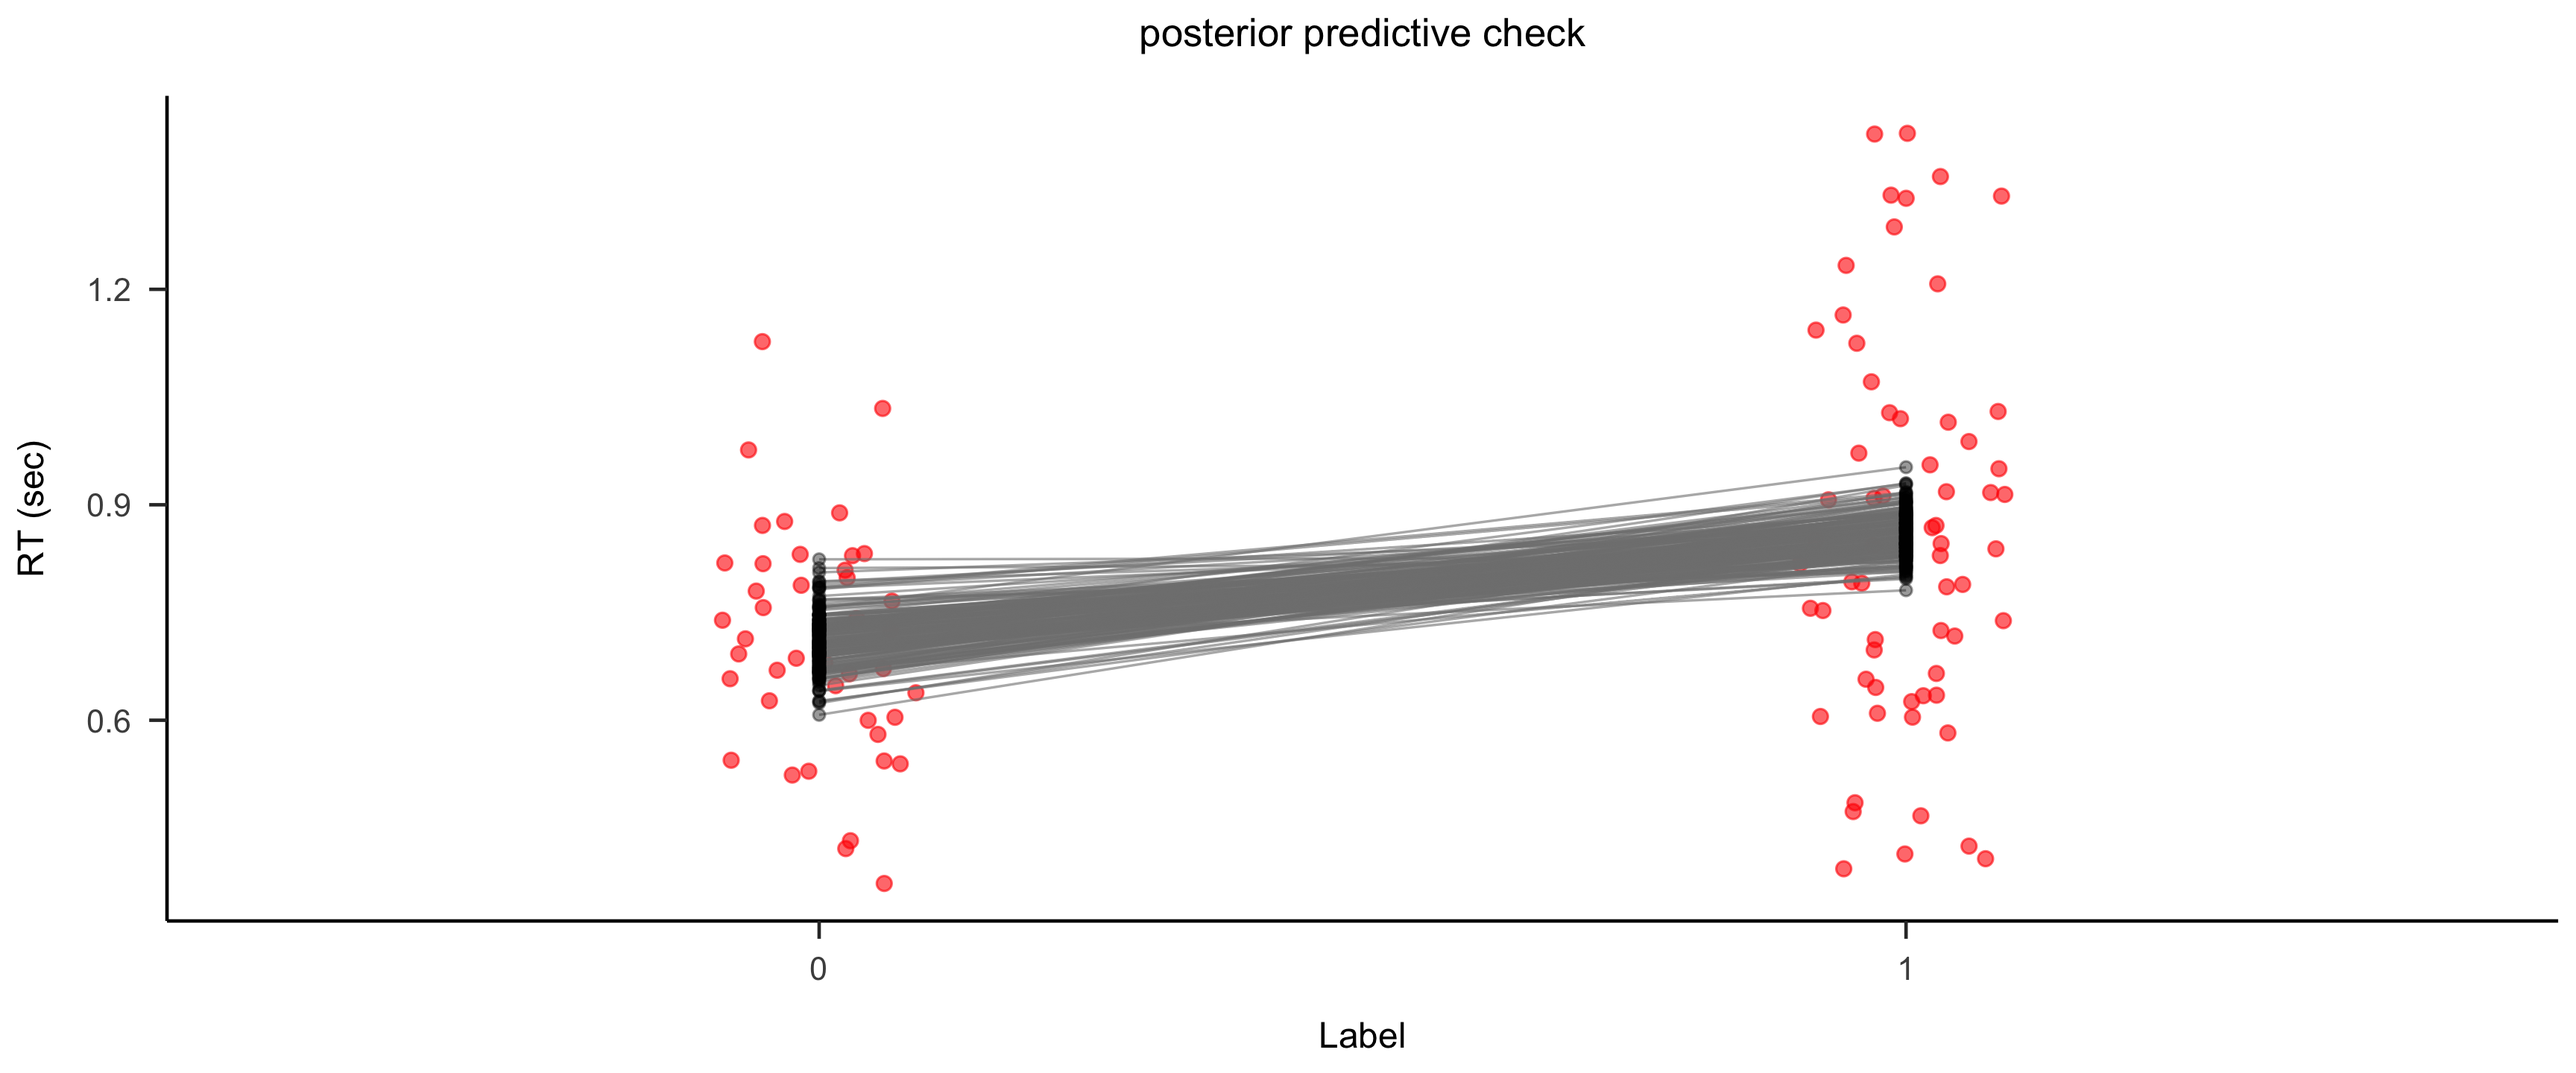
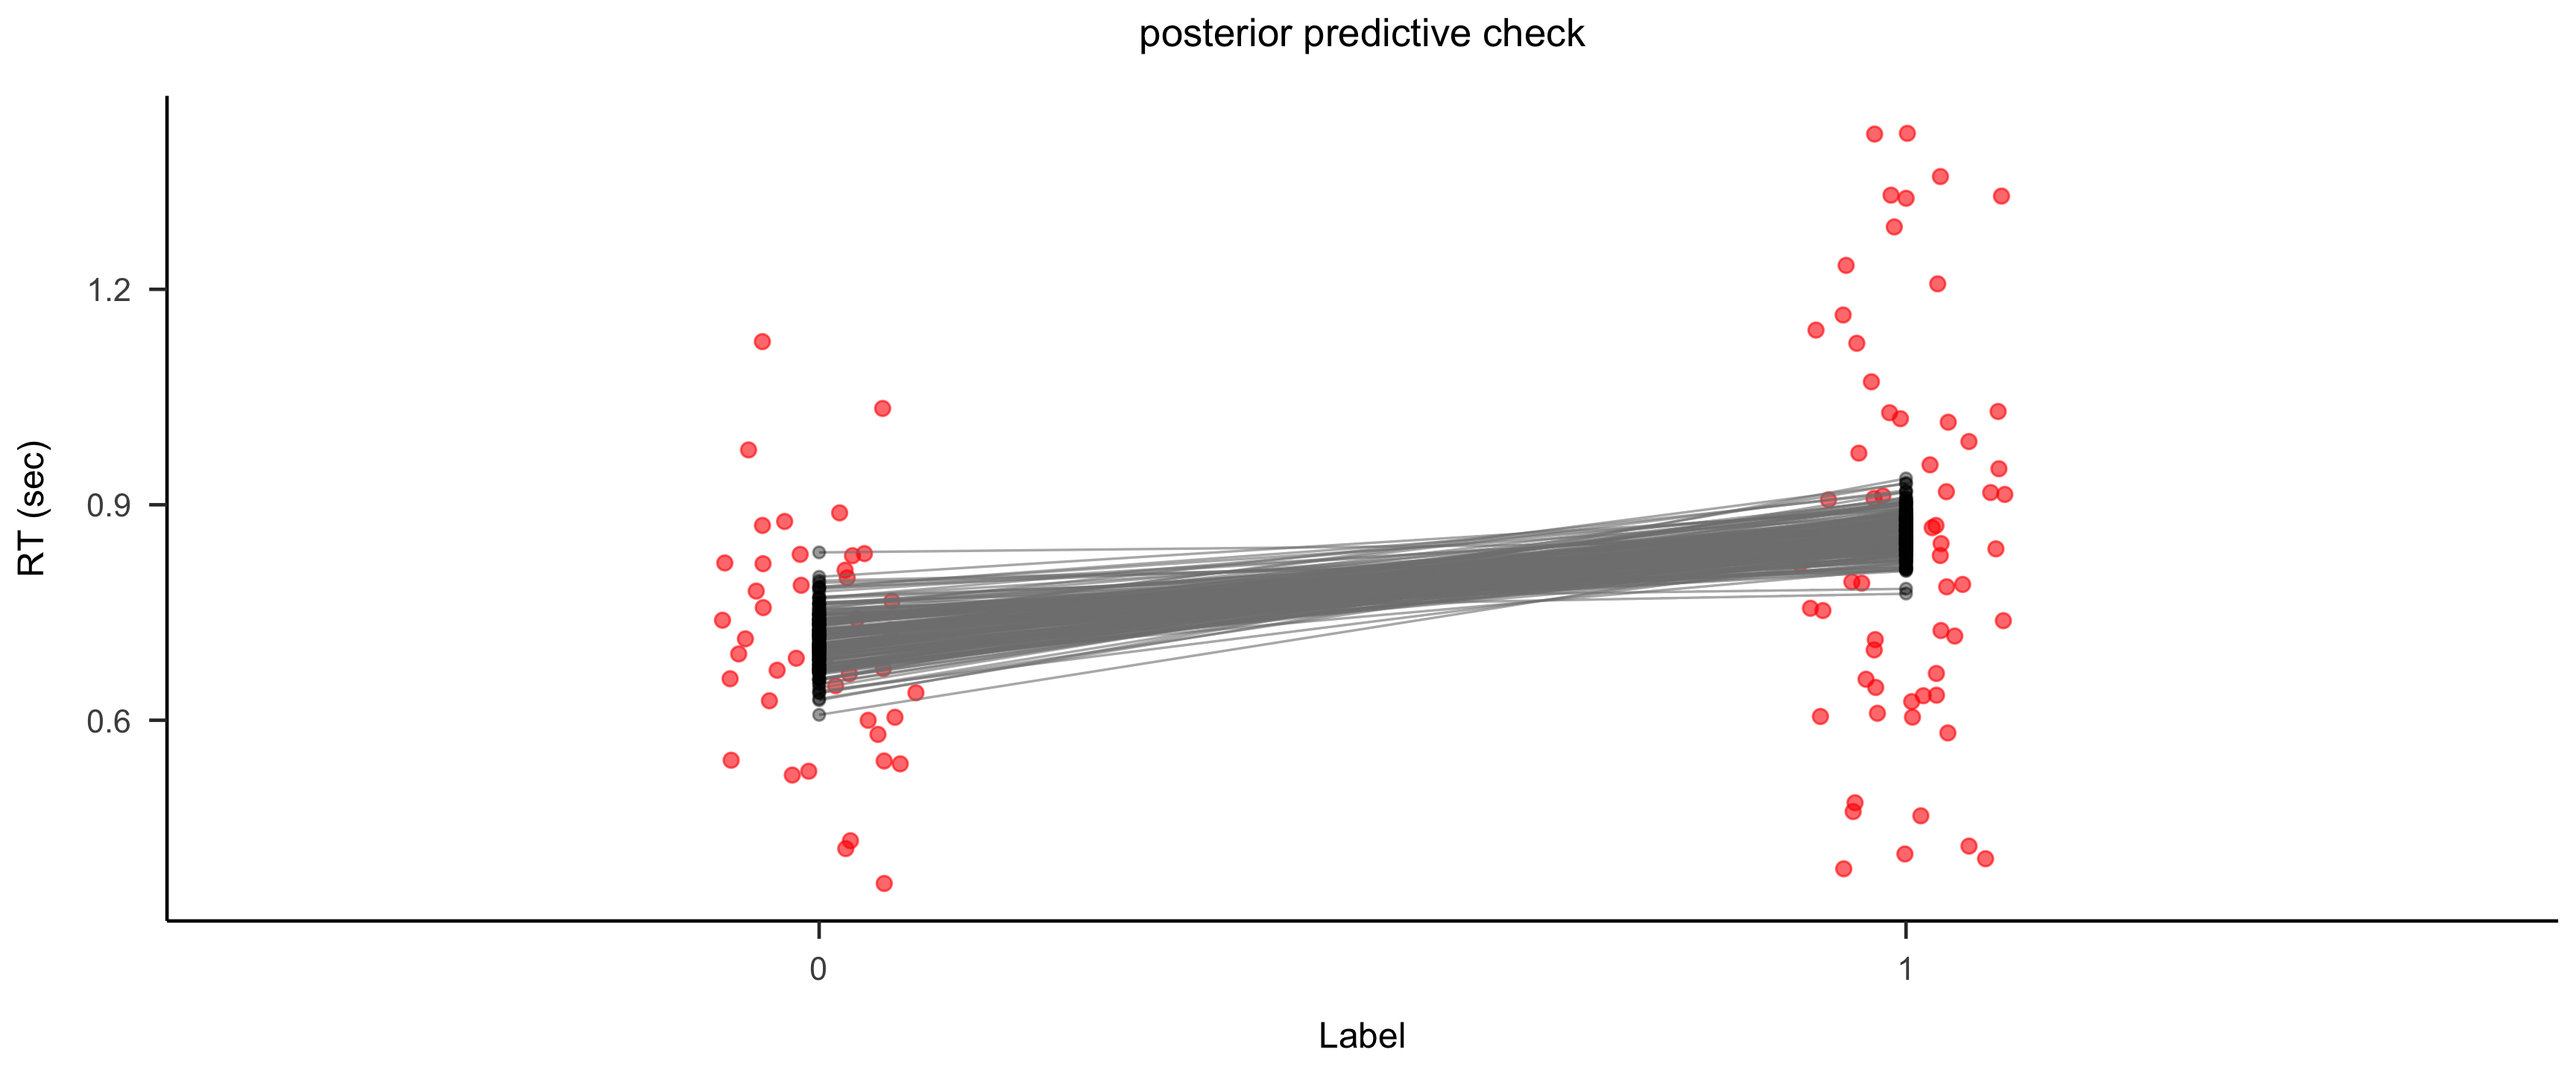
rerendered lec9

Changed region(s): [[0.3125, 0.4375, 0.75, 0.6562]]

diff --git a/lec9.html b/lec9.html
@@ -1173,7 +1173,7 @@ beta0 0.71       0 0.04 0.64 0.69 0.71 0.74  0.78  1904    1
 beta1 0.15       0 0.05 0.06 0.12 0.15 0.18  0.24  1841    1
 sigma 0.23       0 0.02 0.20 0.22 0.23 0.24  0.27  2737    1
 
-Samples were drawn using NUTS(diag_e) at Thu Nov  5 17:51:21 2026.
+Samples were drawn using NUTS(diag_e) at Thu Nov  5 18:03:15 2026.
 For each parameter, n_eff is a crude measure of effective sample size,
 and Rhat is the potential scale reduction factor on split chains (at 
 convergence, Rhat=1).</code></pre>
@@ -1236,17 +1236,17 @@ convergence, Rhat=1).</code></pre>
 </details>
 <div class="cell-output cell-output-stdout">
 <pre><code>List of 6
- $ beta0  : num [1:4000(1d)] 0.702 0.683 0.691 0.702 0.658 ...
+ $ beta0  : num [1:4000(1d)] 0.69 0.741 0.738 0.691 0.698 ...
   ..- attr(*, "dimnames")=List of 1
- $ beta1  : num [1:4000(1d)] 0.142 0.186 0.138 0.123 0.246 ...
+ $ beta1  : num [1:4000(1d)] 0.158 0.096 0.17 0.14 0.165 ...
   ..- attr(*, "dimnames")=List of 1
- $ sigma  : num [1:4000(1d)] 0.234 0.201 0.225 0.231 0.27 ...
+ $ sigma  : num [1:4000(1d)] 0.205 0.243 0.225 0.219 0.243 ...
   ..- attr(*, "dimnames")=List of 1
- $ y_rep  : num [1:4000, 1:105] 0.821 0.851 0.985 0.838 1.444 ...
+ $ y_rep  : num [1:4000, 1:105] 0.799 1.055 0.783 0.773 0.996 ...
   ..- attr(*, "dimnames")=List of 2
- $ log_lik: num [1:4000, 1:105] 0.459 0.518 0.516 0.498 0.235 ...
+ $ log_lik: num [1:4000, 1:105] 0.557 0.435 0.336 0.539 0.391 ...
   ..- attr(*, "dimnames")=List of 2
- $ lp__   : num [1:4000(1d)] 99.1 97 98.5 98.5 95 ...
+ $ lp__   : num [1:4000(1d)] 97.7 98.3 97.6 98.3 98.8 ...
   ..- attr(*, "dimnames")=List of 1</code></pre>
 </div>
 </div>
@@ -1269,8 +1269,8 @@ convergence, Rhat=1).</code></pre>
 <div class="code-copy-outer-scaffold"><div class="sourceCode cell-code" id="cb29"><pre class="sourceCode numberSource r number-lines code-with-copy"><code class="sourceCode r"><span id="cb29-1"><a href="" aria-label="1"></a><span class="fu">print</span>(<span class="fu">head</span>(beta0_posterior, <span class="dv">10</span>))</span></code></pre></div><button title="Copy to Clipboard" class="code-copy-button"><i class="bi"></i></button></div>
 </details>
 <div class="cell-output cell-output-stdout">
-<pre><code> [1] 0.7024687 0.6832927 0.6914895 0.7019135 0.6578911 0.6952372 0.7070355
- [8] 0.7300385 0.7454411 0.6573702</code></pre>
+<pre><code> [1] 0.6897842 0.7410063 0.7379714 0.6908257 0.6984812 0.6696471 0.7005186
+ [8] 0.7521664 0.6928770 0.6894038</code></pre>
 </div>
 </div>
 </section>
@@ -1286,7 +1286,7 @@ convergence, Rhat=1).</code></pre>
 <span id="cb31-4"><a href="" aria-label="4"></a><span class="fu">cat</span>(<span class="fu">sprintf</span>(<span class="st">"第1条链的第11个beta_0样本值：%.4f</span><span class="sc">\n</span><span class="st">"</span>, chain1_sample11))</span></code></pre></div><button title="Copy to Clipboard" class="code-copy-button"><i class="bi"></i></button></div>
 </details>
 <div class="cell-output cell-output-stdout">
-<pre><code>第1条链的第11个beta_0样本值：0.6824</code></pre>
+<pre><code>第1条链的第11个beta_0样本值：0.7350</code></pre>
 </div>
 </div>
 </section>
@@ -1415,13 +1415,13 @@ sigma 0.2417713 0.2672455 2737.290 0.9992968</code></pre>
 <span id="cb41-2"><a href="" aria-label="2"></a><span class="fu">head</span>(par_post)</span></code></pre></div><button title="Copy to Clipboard" class="code-copy-button"><i class="bi"></i></button></div>
 </details>
 <div class="cell-output cell-output-stdout">
-<pre><code>      beta0     beta1     sigma
-1 0.7024687 0.1418890 0.2336402
-2 0.6832927 0.1860454 0.2008626
-3 0.6914895 0.1375028 0.2248295
-4 0.7019135 0.1231358 0.2309292
-5 0.6578911 0.2457531 0.2698802
-6 0.6952372 0.1647692 0.2356291</code></pre>
+<pre><code>      beta0      beta1     sigma
+1 0.6897842 0.15835825 0.2051658
+2 0.7410063 0.09601452 0.2431632
+3 0.7379714 0.17026953 0.2246168
+4 0.6908257 0.13971178 0.2185130
+5 0.6984812 0.16522857 0.2432313
+6 0.6696471 0.18268134 0.2312098</code></pre>
 </div>
 </div>
 </section>
@@ -1696,7 +1696,7 @@ Y_{\text{new}}^{(i)} = \mu^{(i)} + \epsilon^{(i)}, \quad \epsilon^{(i)} \sim N\l
 <span id="cb49-13"><a href="" aria-label="13"></a><span class="fu">cat</span>(<span class="fu">sprintf</span>(<span class="st">"mu_i: %.2f, 预测值：%.2f</span><span class="sc">\n</span><span class="st">"</span>, mu_i, prediction_i))</span></code></pre></div><button title="Copy to Clipboard" class="code-copy-button"><i class="bi"></i></button></div>
 </details>
 <div class="cell-output cell-output-stdout">
-<pre><code>mu_i: 0.84, 预测值：0.74</code></pre>
+<pre><code>mu_i: 0.85, 预测值：0.75</code></pre>
 </div>
 </div>
 </section>
@@ -1741,13 +1741,13 @@ Y_{\text{new}}^{(i)} = \mu^{(i)} + \epsilon^{(i)}, \quad \epsilon^{(i)} \sim N\l
 <span id="cb51-24"><a href="" aria-label="24"></a><span class="fu">head</span>(par_post)</span></code></pre></div><button title="Copy to Clipboard" class="code-copy-button"><i class="bi"></i></button></div>
 </details>
 <div class="cell-output cell-output-stdout">
-<pre><code>      beta0     beta1     sigma        mu     y_new
-1 0.7024687 0.1418890 0.2336402 0.8443577 1.0002501
-2 0.6832927 0.1860454 0.2008626 0.8693381 0.8444633
-3 0.6914895 0.1375028 0.2248295 0.8289923 1.0045544
-4 0.7019135 0.1231358 0.2309292 0.8250494 0.8797607
-5 0.6578911 0.2457531 0.2698802 0.9036441 1.1186067
-6 0.6952372 0.1647692 0.2356291 0.8600064 1.2330656</code></pre>
+<pre><code>      beta0      beta1     sigma        mu     y_new
+1 0.6897842 0.15835825 0.2051658 0.8481424 0.9850358
+2 0.7410063 0.09601452 0.2431632 0.8370208 0.8069074
+3 0.7379714 0.17026953 0.2246168 0.9082410 1.0836369
+4 0.6908257 0.13971178 0.2185130 0.8305375 0.8823072
+5 0.6984812 0.16522857 0.2432313 0.8637098 1.0574462
+6 0.6696471 0.18268134 0.2312098 0.8523285 1.2183909</code></pre>
 </div>
 </div>
 </section>
@@ -1880,11 +1880,11 @@ Y_{\text{new}}^{(i)} = \mu^{(i)} + \epsilon^{(i)}, \quad \epsilon^{(i)} \sim N\l
 <div class="cell-output cell-output-stdout">
 <pre><code>          
 iterations      [,1]      [,2]      [,3]      [,4]      [,5]
-      [1,] 0.8208968 0.6852010 0.9912925 1.0645908 0.7865035
-      [2,] 0.8513878 0.8925647 0.9016370 0.9426931 1.0944478
-      [3,] 0.9851390 0.8781846 0.4714236 1.2600183 1.1822575
-      [4,] 0.8376857 1.1236251 0.8235936 0.6870586 0.7141624
-      [5,] 1.4435000 0.4806048 1.0154071 1.3200804 0.4803788</code></pre>
+      [1,] 0.7994518 0.7516764 1.2380953 0.8824513 0.7766861
+      [2,] 1.0547194 0.5529521 0.9225779 0.6565664 0.8684148
+      [3,] 0.7827347 1.1583749 0.5160079 1.0045569 1.1990283
+      [4,] 0.7725765 0.5885938 0.7726230 1.0538917 0.7025695
+      [5,] 0.9962741 1.0198349 0.9537432 0.8002544 1.0978354</code></pre>
 </div>
 </div>
 </section>
